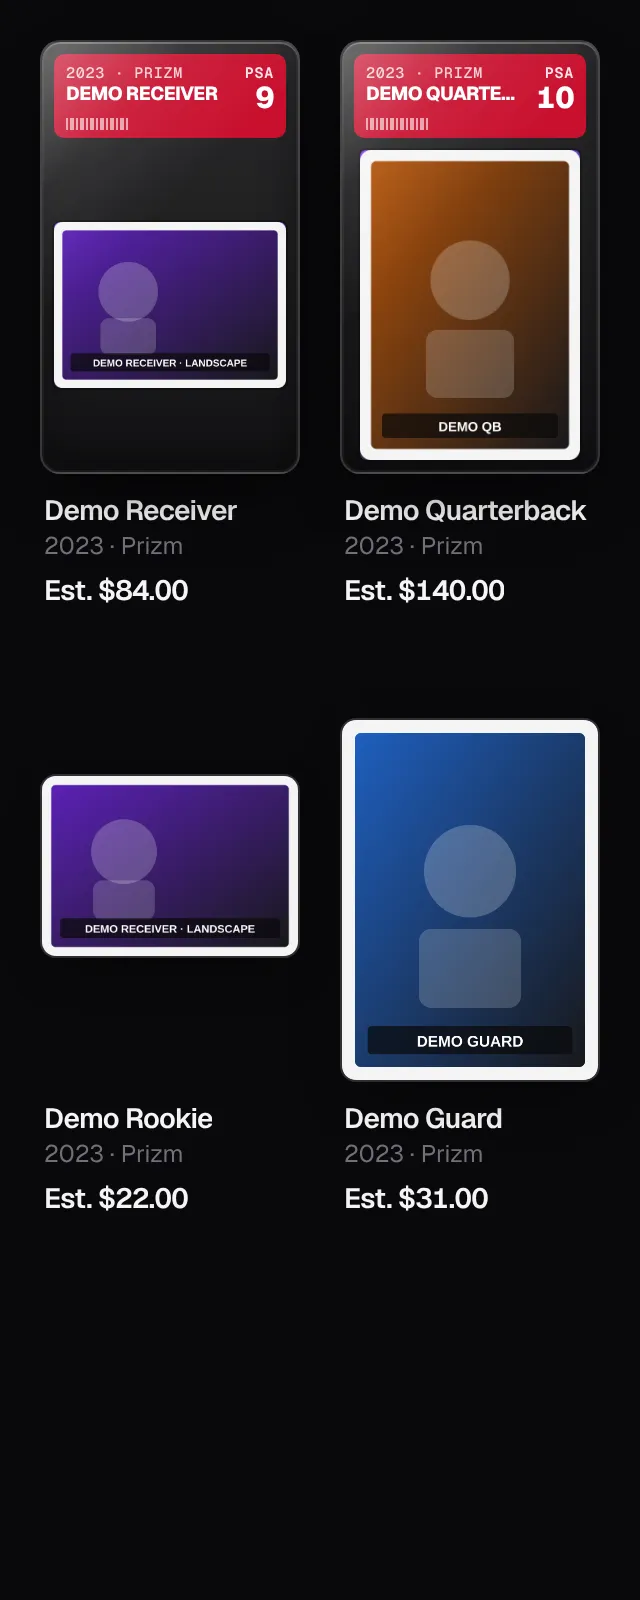
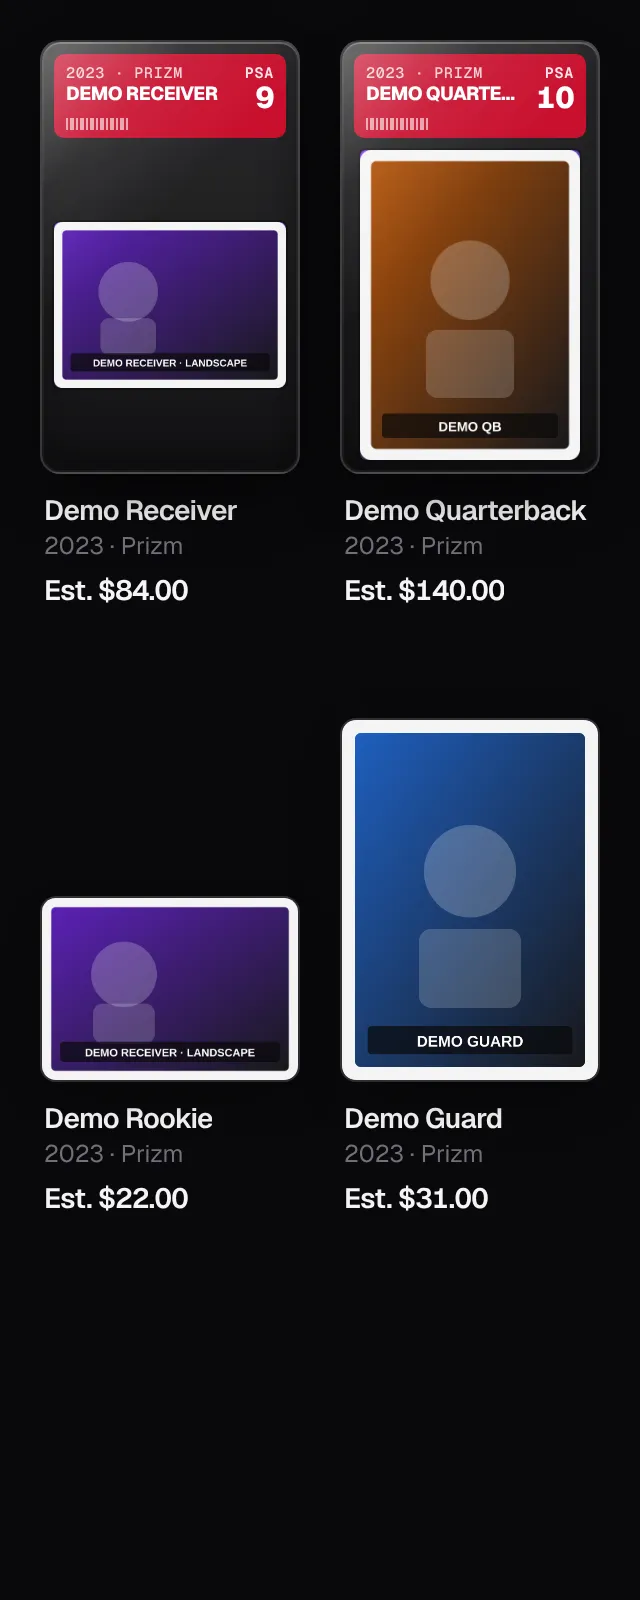
Raw landscape tiles sit at the bottom, on the portrait baseline
The 7:5 window of a raw landscape card now shares a baseline with portrait
raw cards and slab bottoms, right above the name and price. Slabs stay
centred under the label. Trims the shape cache's eviction for bundle
headroom, and re-shoots the feed and collection screenshots.

Claude-Session: https://claude.ai/code/session_01EqJov2kSefor3i4ohSDxEr

Changed region(s): [[0.0625, 0.4688, 0.4688, 0.6875]]

diff --git a/components/card-slab-frame.tsx b/components/card-slab-frame.tsx
@@ -40,8 +40,10 @@ function accentColor(accent: string | null | undefined): string {
 /**
  * The slab or card around a photo, with no state of its own, so the server can
  * draw it (the landing hero) and so can the collection grid. Fills a 3:5 box.
- * A landscape photo gets a 7:5 window centred in the same 3:5 tile, so grid
- * rows keep their height and nothing reflows.
+ * A landscape photo gets a 7:5 window in the same 3:5 tile, so grid rows keep
+ * their height and nothing reflows: at the bottom for a raw card (sharing a
+ * baseline with portrait cards, right above the name and price), centred
+ * under the label for a slab.
  */
 export function SlabFrame({
   card,
@@ -56,7 +58,7 @@ export function SlabFrame({
   if (tileKind(card) === "card") {
     return (
       <div
-        className={`flex aspect-[3/5] w-full flex-col ${wide ? "justify-center" : "justify-end"}`}
+        className="flex aspect-[3/5] w-full flex-col justify-end"
         data-kind="card"
         data-shape={wide ? "landscape" : undefined}
       >

diff --git a/components/card-landscape.test.tsx b/components/card-landscape.test.tsx
@@ -74,10 +74,10 @@ describe("SlabFrame shape", () => {
     assert.ok(frame(SLAB).includes(`class="${SLAB_PHOTO}"`));
   });
 
-  it("gives a raw landscape card a 7:5 window, centred in the same 3:5 tile", () => {
+  it("gives a raw landscape card a 7:5 window at the bottom of the same 3:5 tile", () => {
     const out = frame(RAW, "landscape");
     assert.match(out, /data-shape="landscape"/);
-    assert.match(out, /class="flex aspect-\[3\/5\] w-full flex-col justify-center"/);
+    assert.match(out, /class="flex aspect-\[3\/5\] w-full flex-col justify-end"/);
     assert.match(out, /class="relative aspect-\[7\/5\] w-full overflow-hidden/);
     assert.doesNotMatch(out, /aspect-\[5\/7\]|row-span|col-span/);
   });

diff --git a/lib/ui/card-shape.ts b/lib/ui/card-shape.ts
@@ -33,10 +33,8 @@ export function rememberShape(src: string, width: number, height: number): CardS
   if (!key || key.startsWith("data:") || !(width > 0) || !(height > 0)) return shape;
   shapes.delete(key);
   shapes.set(key, shape);
-  if (shapes.size > MAX_SHAPES) {
-    const oldest = shapes.keys().next().value;
-    if (oldest !== undefined) shapes.delete(oldest);
-  }
+  // Maps keep insertion order, so the first key is the oldest.
+  if (shapes.size > MAX_SHAPES) shapes.delete(shapes.keys().next().value!);
   return shape;
 }
 
